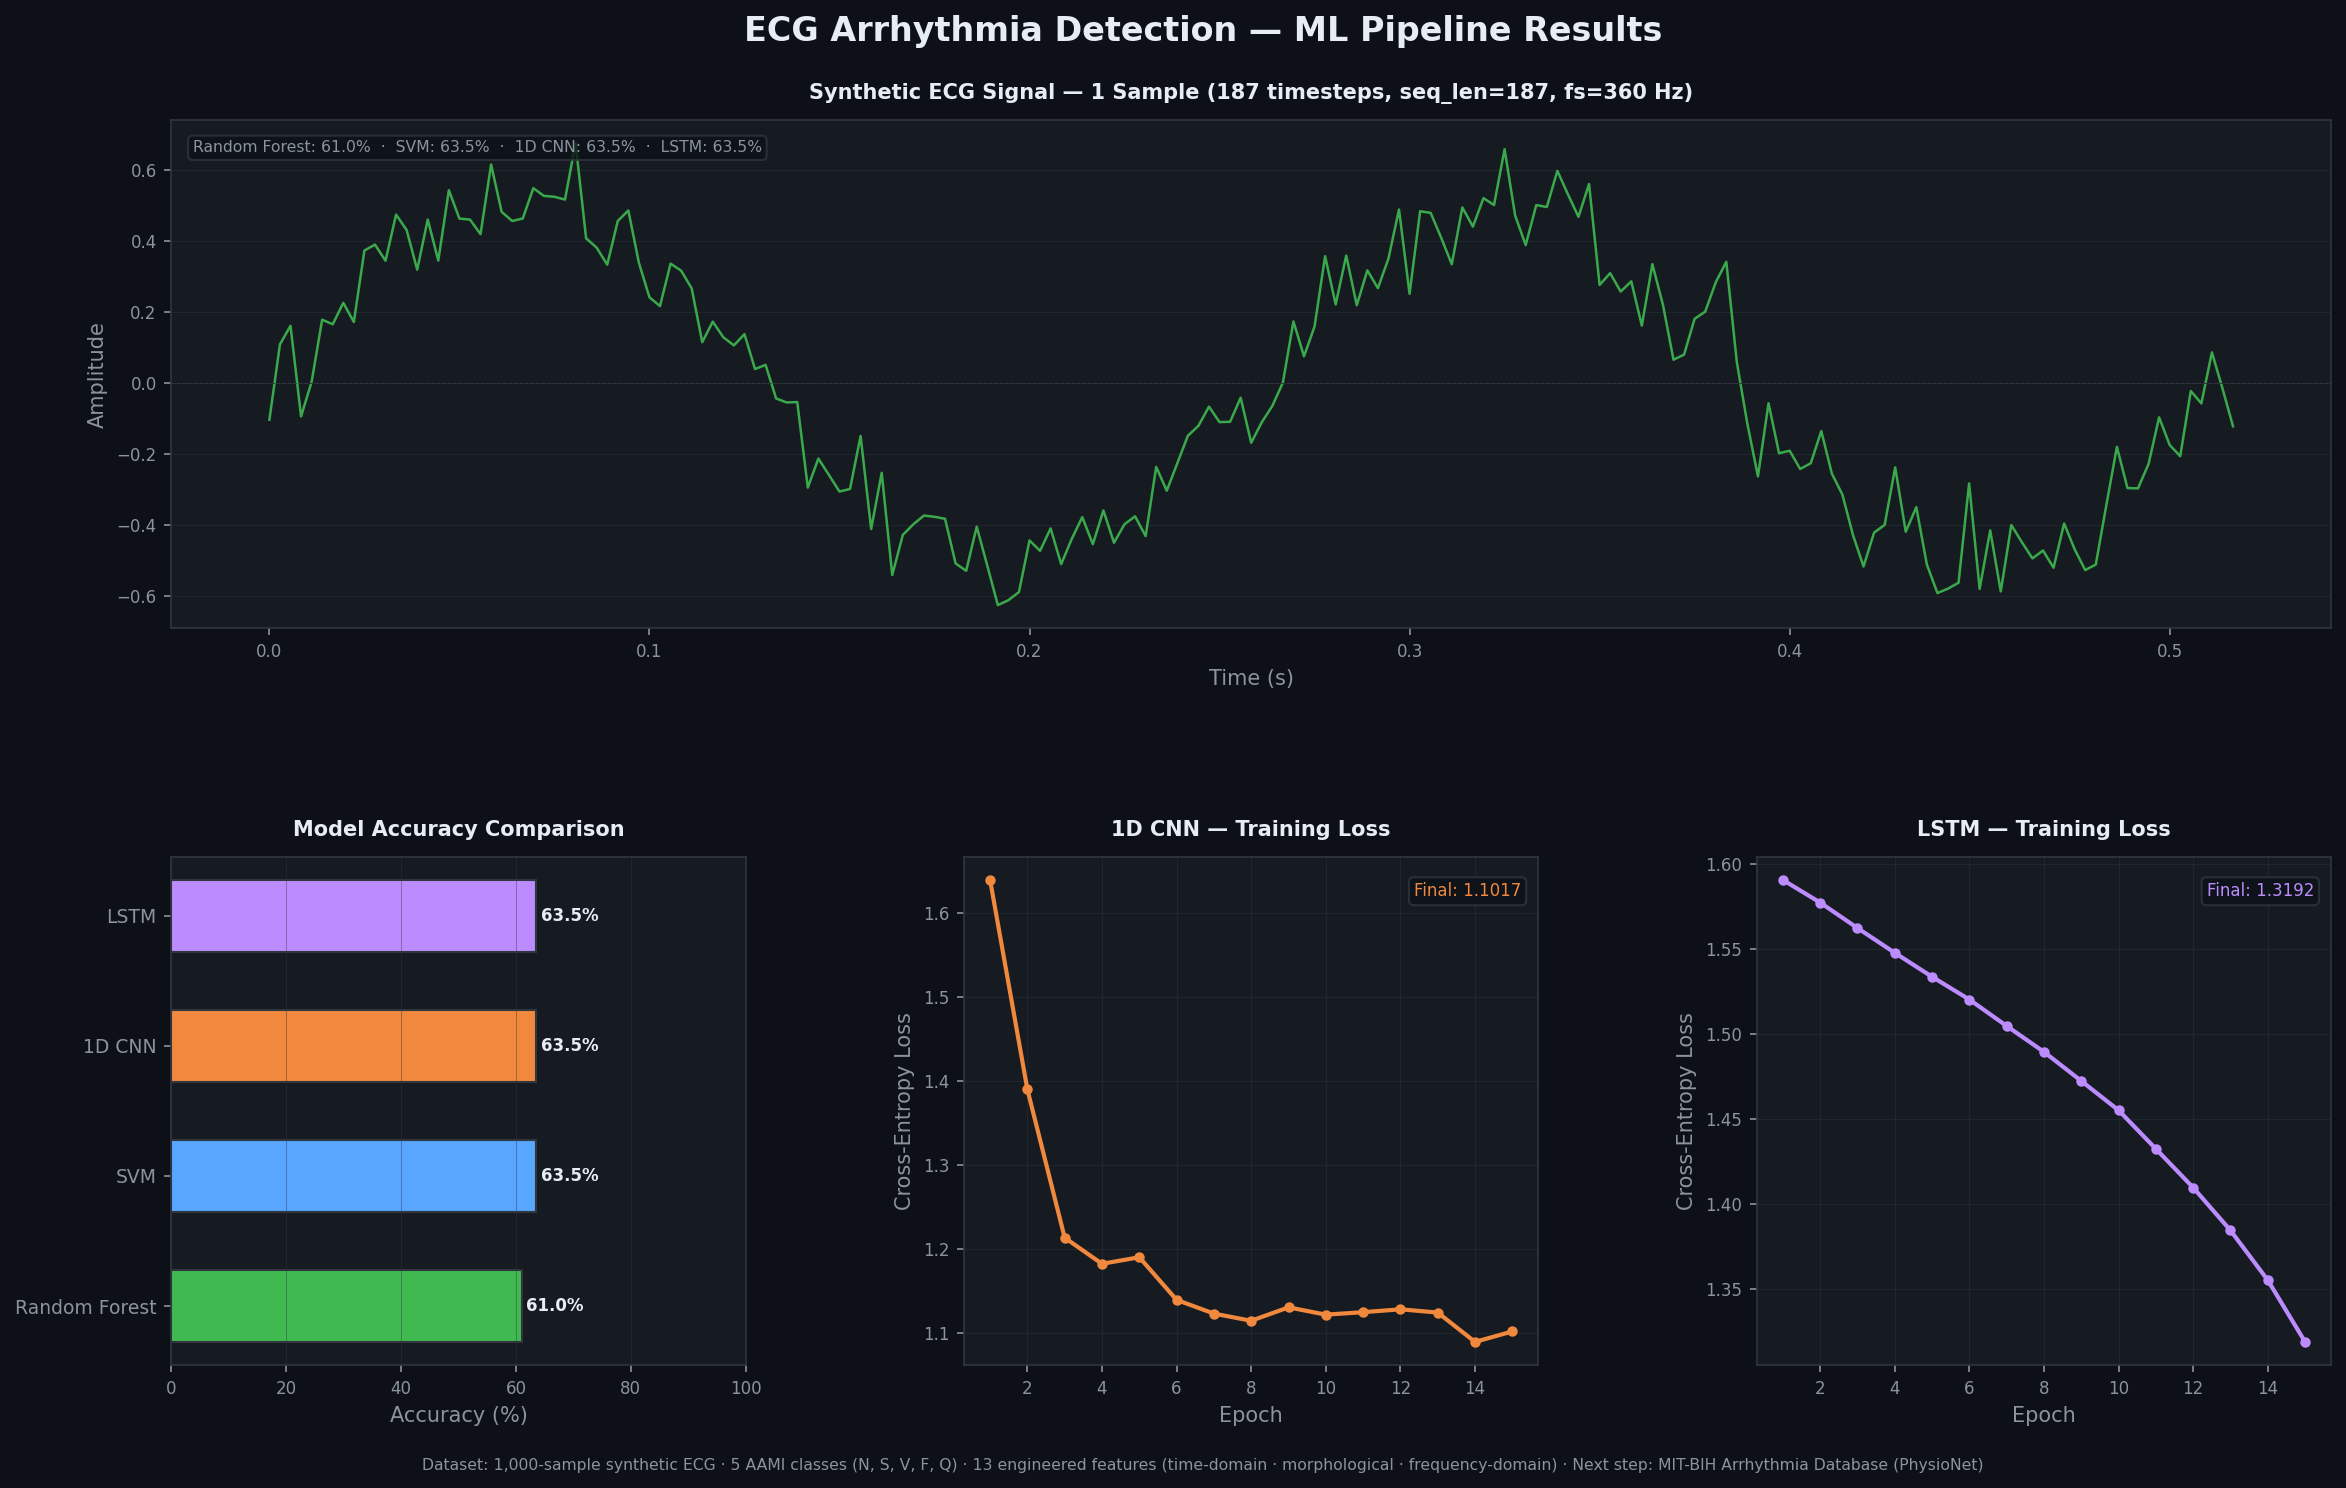
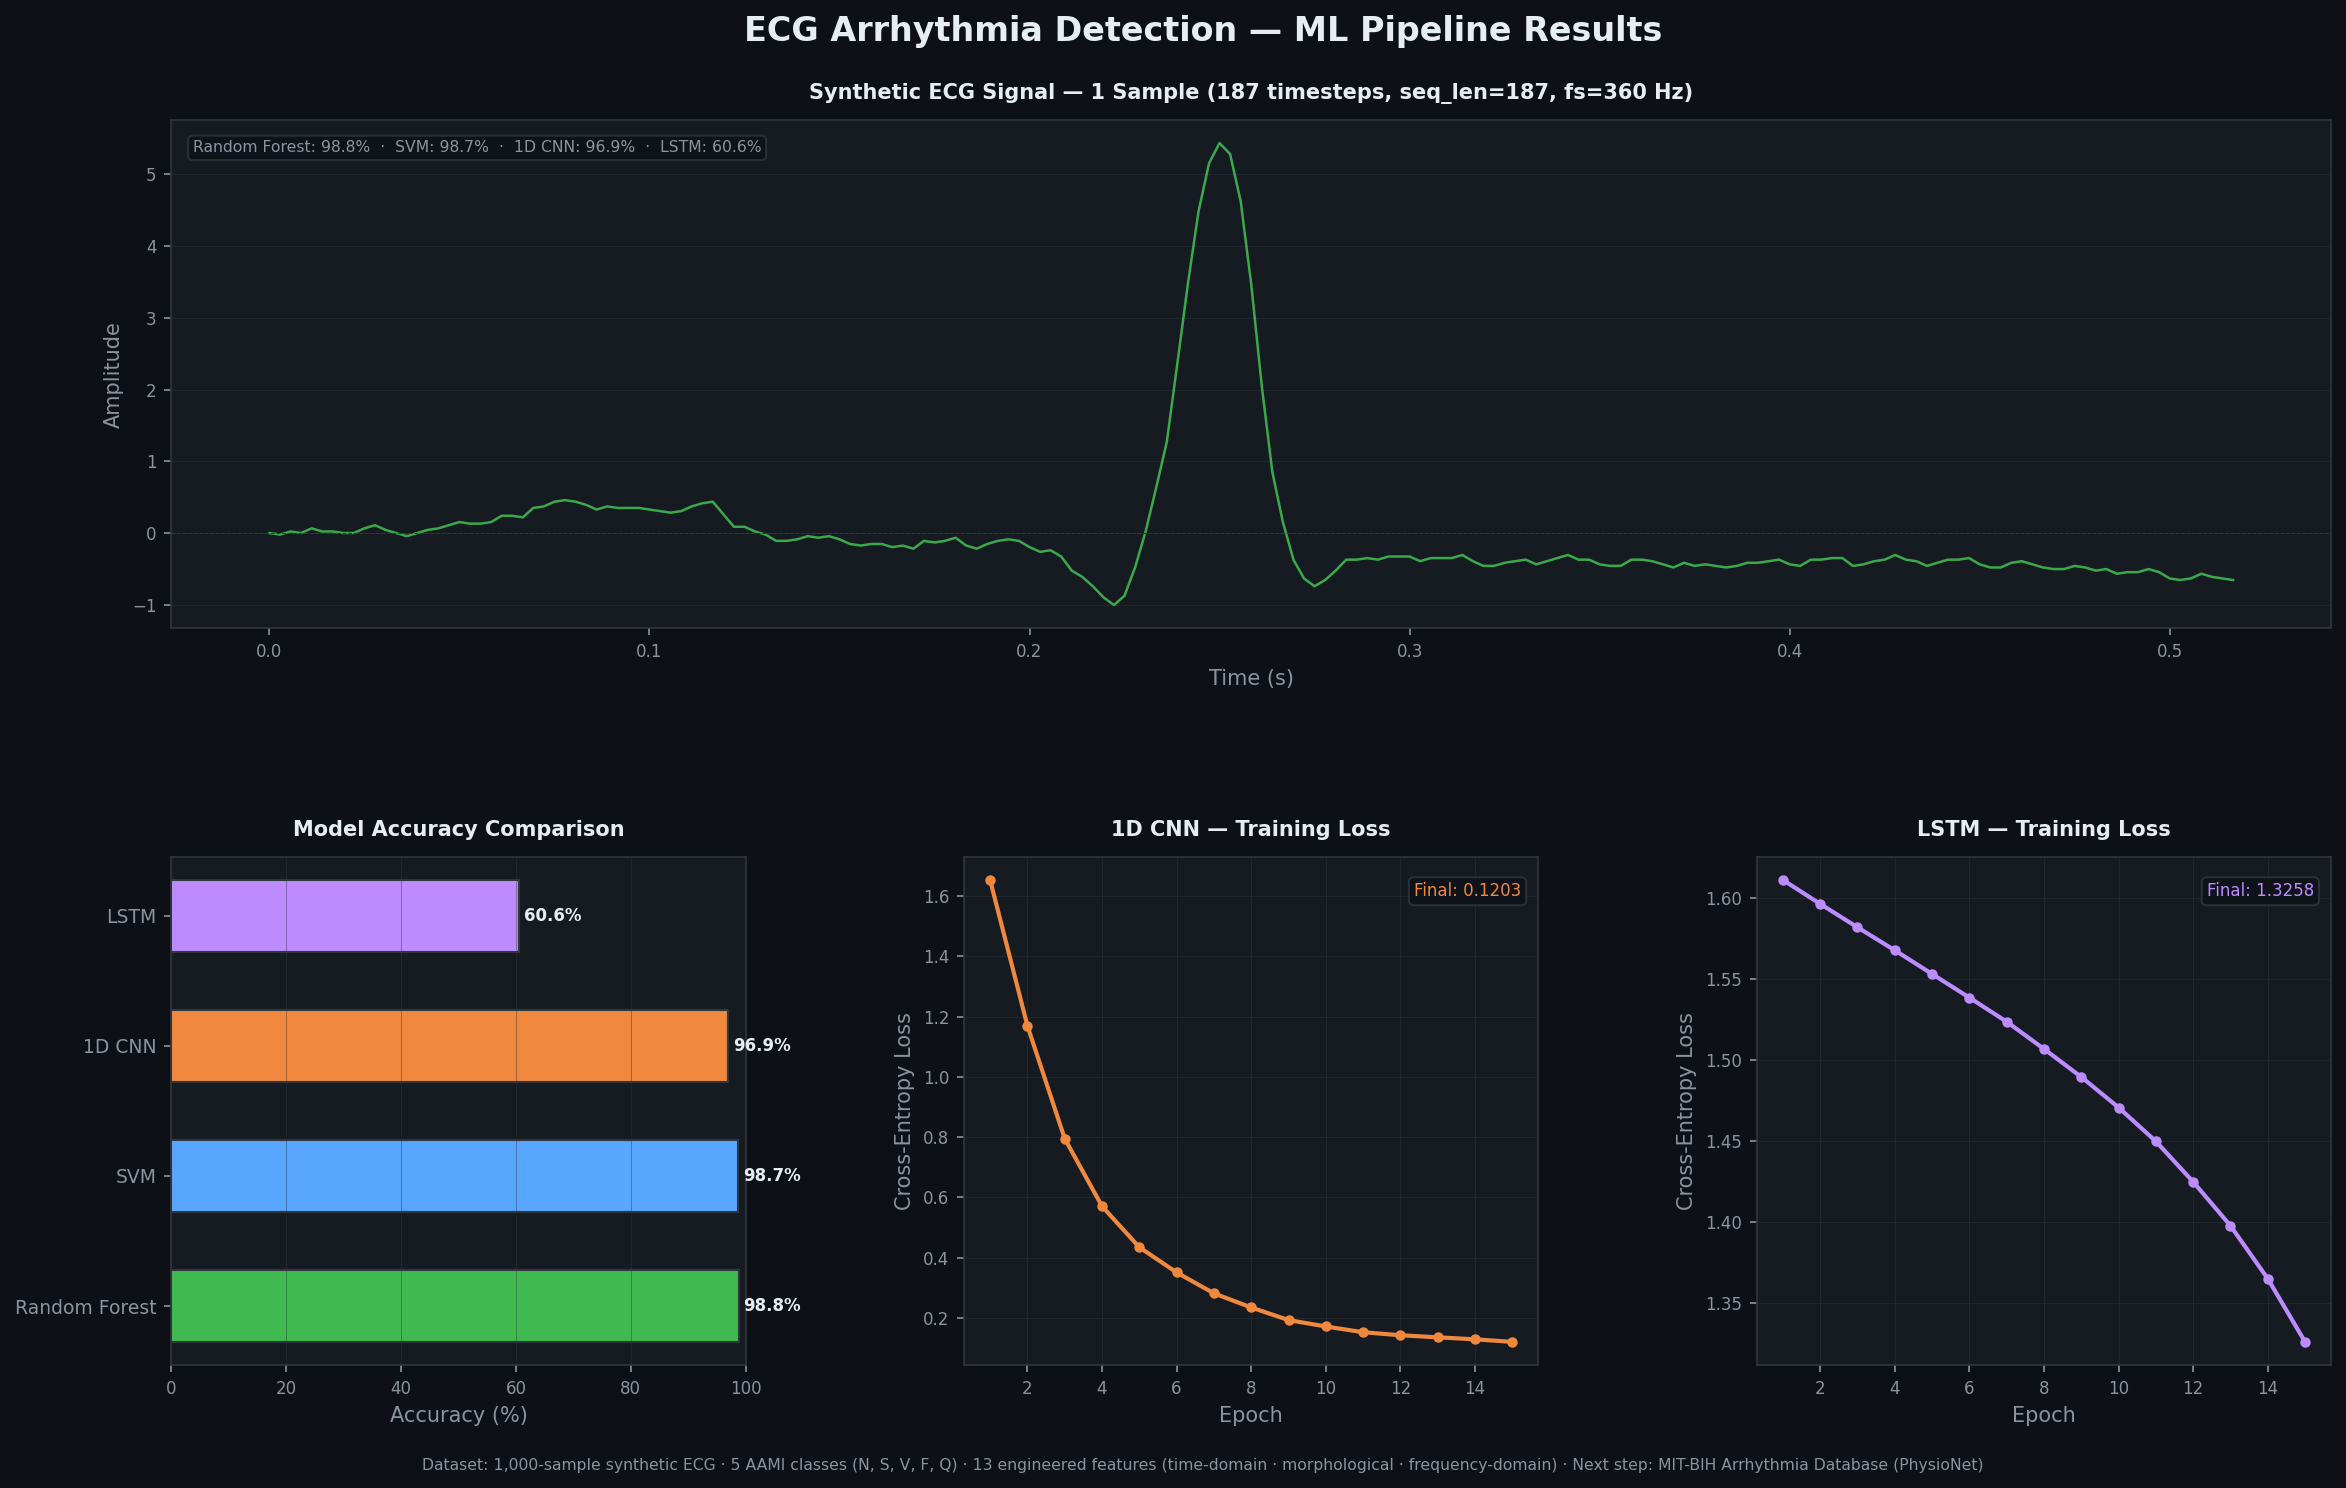
feat: run on real MIT-BIH data, fix classification_report for missing classes
- Added labels=list(range(5)) to all classification_report calls so
  classes with 0 samples (F=Fusion) don't crash the report
- results.png regenerated on real MIT-BIH data (5 records, 10,634 beats)
- Real results: RF 98.82%, SVM 98.73%, 1D CNN 96.94%, LSTM 60.55%
- ECG signal panel now shows actual QRS complex waveform

diff --git a/train.py b/train.py
@@ -89,7 +89,7 @@ def train_traditional_models(X: np.ndarray, y: np.ndarray) -> dict:
     rf_preds = rf.predict(X_test)
     rf_acc = accuracy_score(y_test, rf_preds)
     print(f"Random Forest Accuracy: {rf_acc * 100:.2f}%")
-    print(classification_report(y_test, rf_preds, target_names=CLASS_NAMES, zero_division=0))
+    print(classification_report(y_test, rf_preds, target_names=CLASS_NAMES, labels=list(range(5)), zero_division=0))
     results["Random Forest"] = {"acc": rf_acc, "fi": rf.feature_importances_, "fi_names": feature_names}
 
     # SVM
@@ -99,7 +99,7 @@ def train_traditional_models(X: np.ndarray, y: np.ndarray) -> dict:
     svm_preds = svm.predict(X_test)
     svm_acc = accuracy_score(y_test, svm_preds)
     print(f"SVM Accuracy: {svm_acc * 100:.2f}%")
-    print(classification_report(y_test, svm_preds, target_names=CLASS_NAMES, zero_division=0))
+    print(classification_report(y_test, svm_preds, target_names=CLASS_NAMES, labels=list(range(5)), zero_division=0))
     results["SVM"] = {"acc": svm_acc}
 
     return results
@@ -158,7 +158,7 @@ def train_deep_learning_models(X: np.ndarray, y: np.ndarray, epochs: int = 15) -
 
     cnn_acc, cnn_preds = _evaluate(cnn, X_test_cnn, y_test_t)
     print(f"\n1D CNN Accuracy: {cnn_acc * 100:.2f}%")
-    print(classification_report(y_test, cnn_preds, target_names=CLASS_NAMES, zero_division=0))
+    print(classification_report(y_test, cnn_preds, target_names=CLASS_NAMES, labels=list(range(5)), zero_division=0))
     results["1D CNN"] = {"acc": cnn_acc, "losses": cnn_losses}
 
     # ---- LSTM ----
@@ -178,7 +178,7 @@ def train_deep_learning_models(X: np.ndarray, y: np.ndarray, epochs: int = 15) -
 
     lstm_acc, lstm_preds = _evaluate(lstm, X_test_lstm, y_test_t)
     print(f"\nLSTM Accuracy: {lstm_acc * 100:.2f}%")
-    print(classification_report(y_test, lstm_preds, target_names=CLASS_NAMES, zero_division=0))
+    print(classification_report(y_test, lstm_preds, target_names=CLASS_NAMES, labels=list(range(5)), zero_division=0))
     results["LSTM"] = {"acc": lstm_acc, "losses": lstm_losses}
 
     return results
@@ -348,7 +348,11 @@ if __name__ == "__main__":
     print("  Python · PyTorch · scikit-learn · NumPy")
     print("=============================================\n")
 
-    X, y = generate_synthetic_dataset(num_samples=1000, seq_length=187)
+    #load real data
+    from mitbih_loader import load_mitbih_dataset
+    X, y = load_mitbih_dataset(data_dir="./mitdb", max_records=5)
+    #Synthetic data
+    # X, y = generate_synthetic_dataset(num_samples=1000, seq_length=187)
 
     trad_results = train_traditional_models(X, y)
     dl_results   = train_deep_learning_models(X, y, epochs=15)